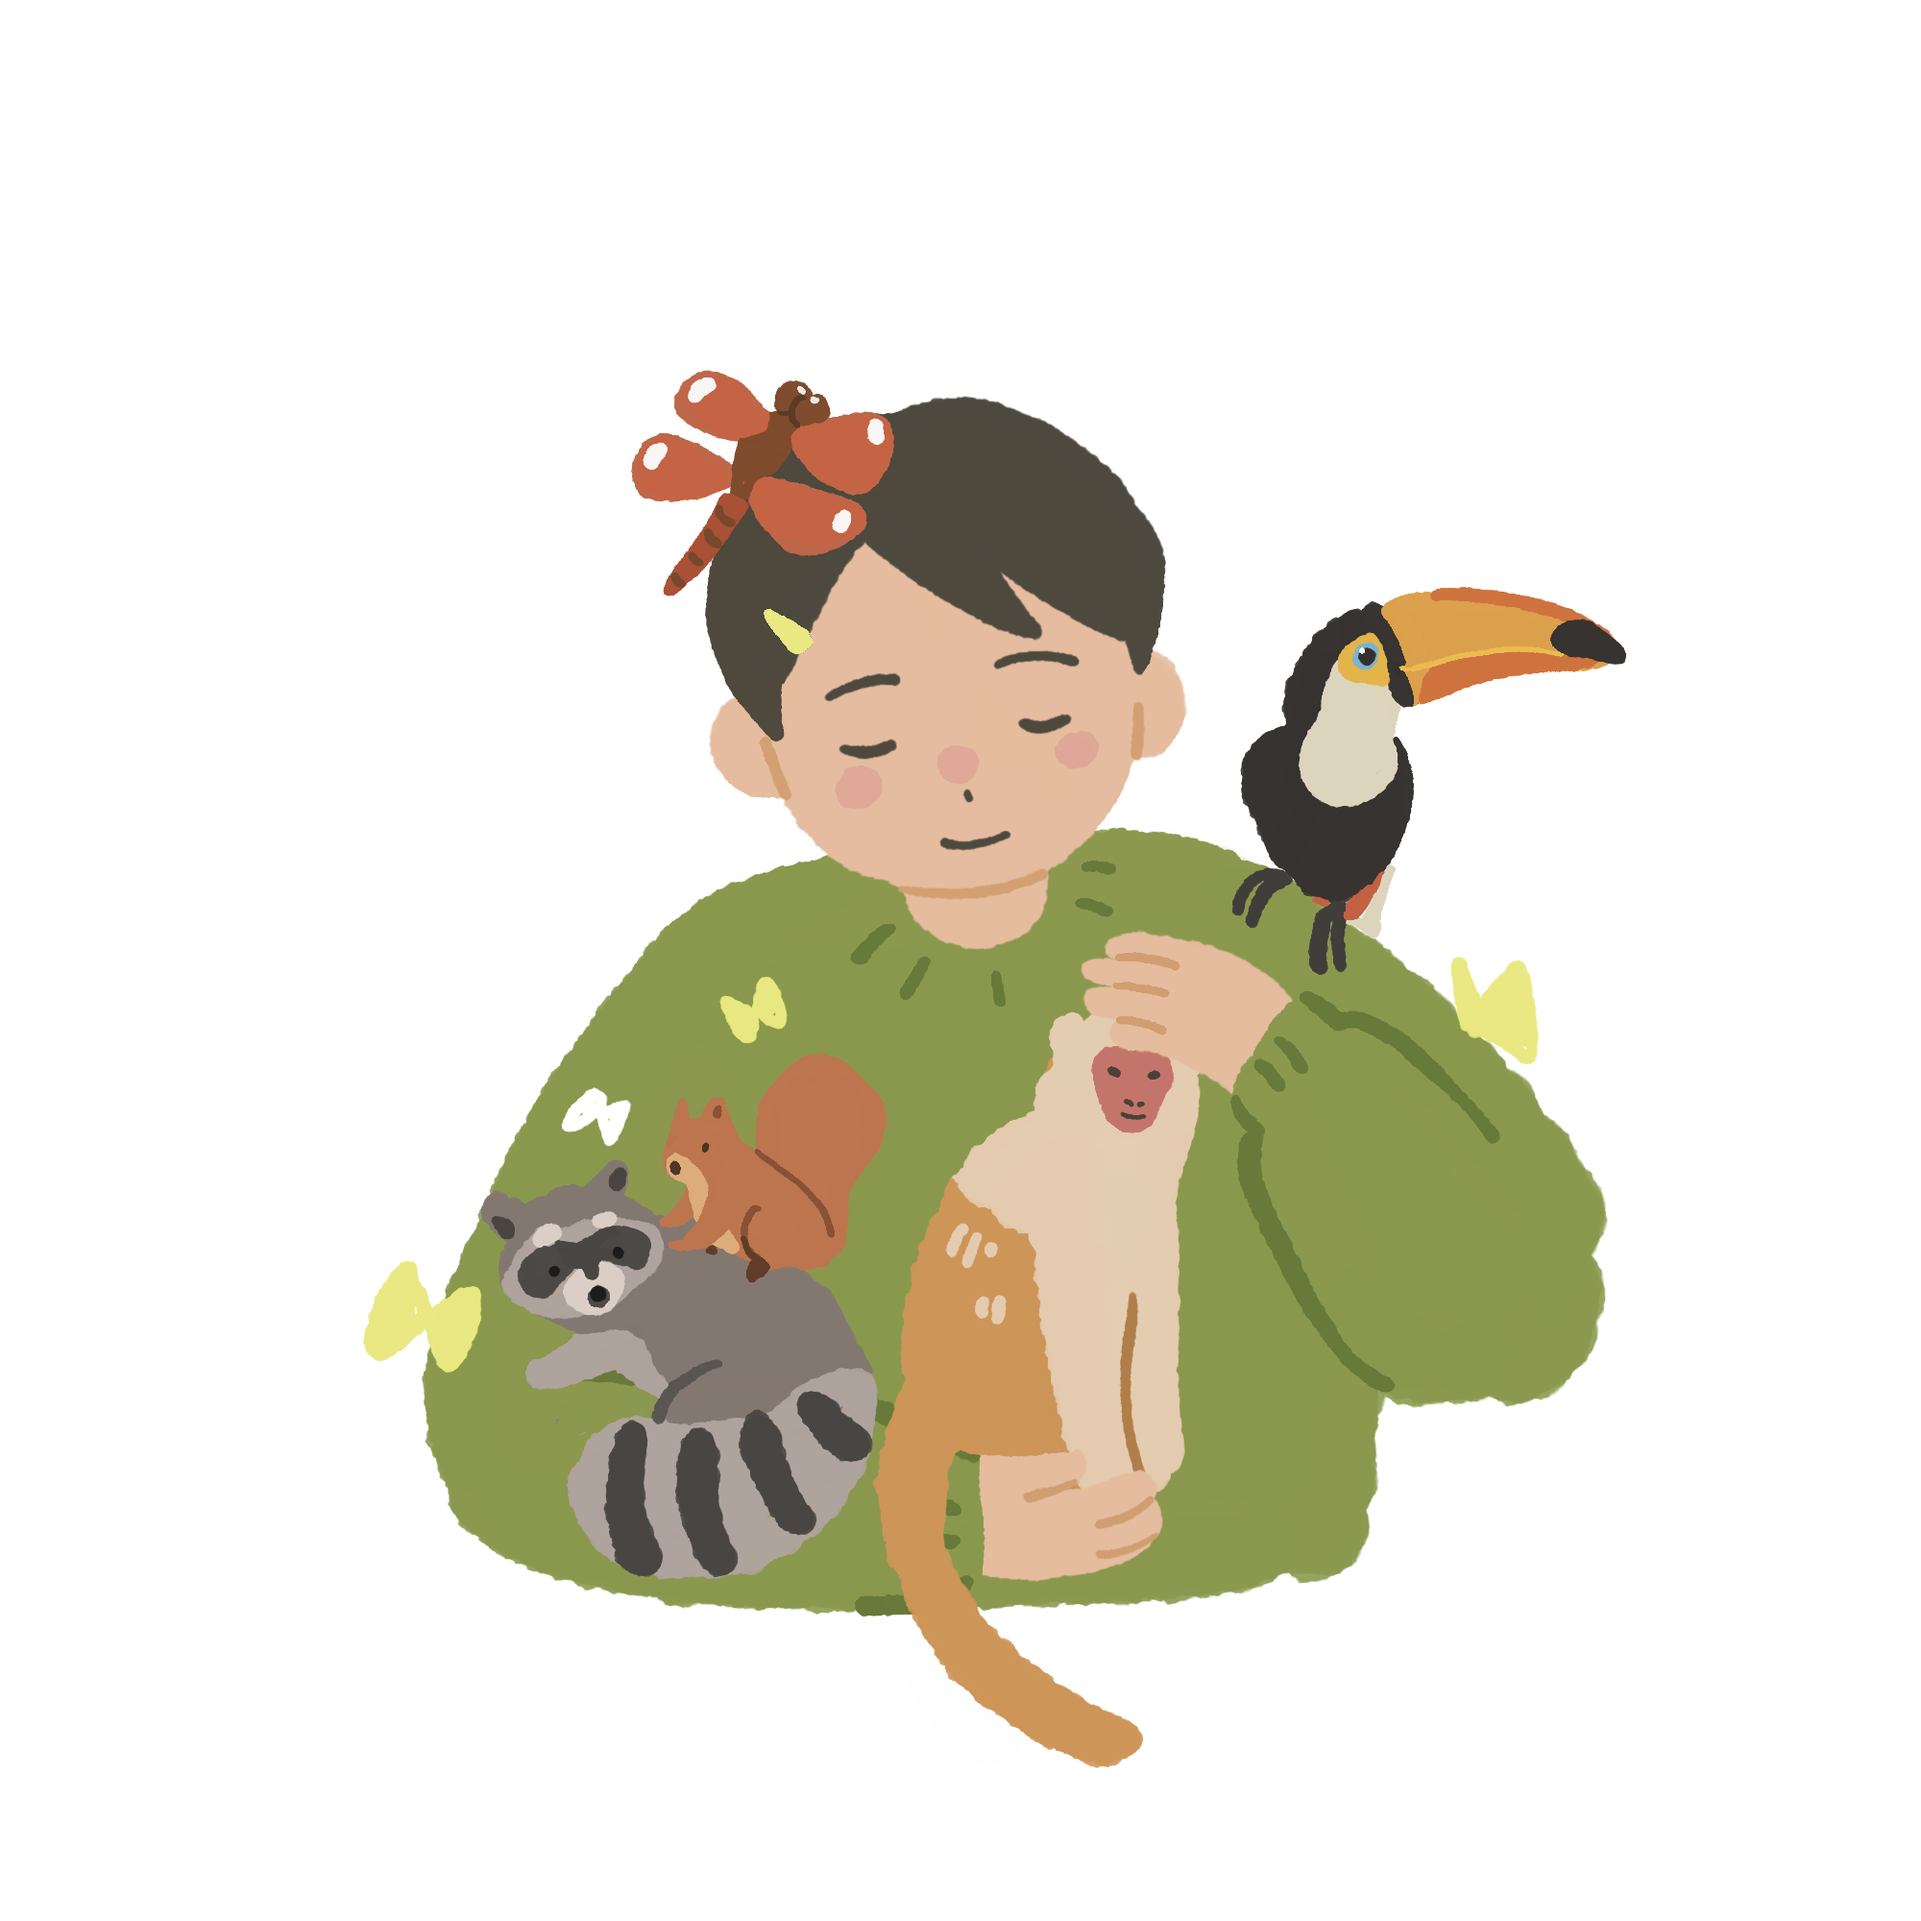
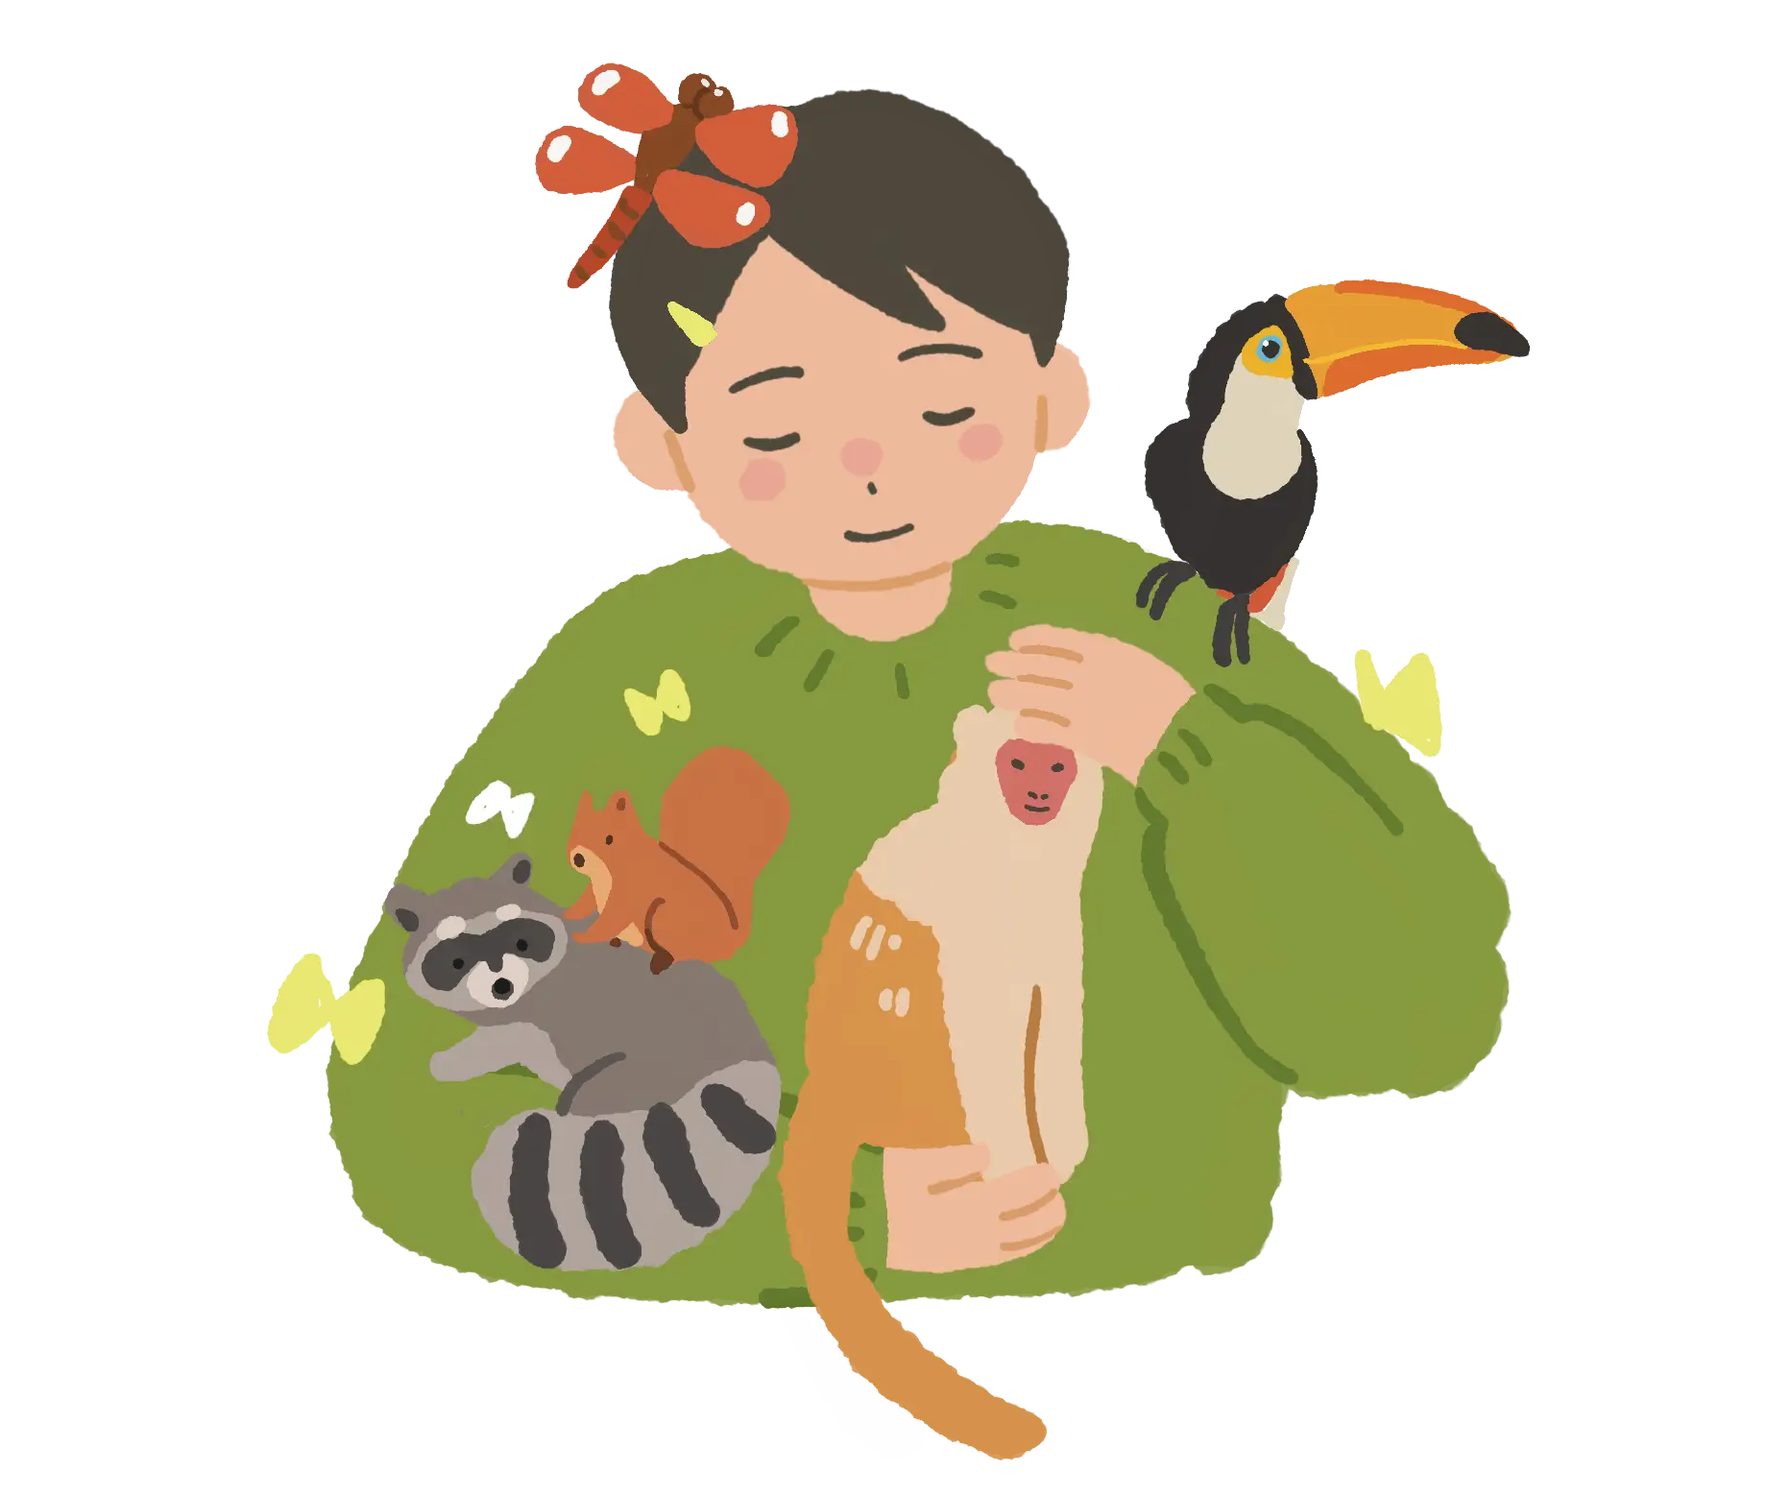
CU-86eryyky2 Routine updates and Change imgsrc from webp to png

Changed region(s): [[0.1549, 0.0308, 0.8674, 0.9846]]

diff --git a/apps/hk/events-biodiversity-wowwildcreatures-masterclass/components/MainPage.js b/apps/hk/events-biodiversity-wowwildcreatures-masterclass/components/MainPage.js
@@ -28,13 +28,13 @@ import HomeSwiper from './HomeSwiper';
 import RobertClassVision from './RobertClassVision';
 import { OrangeCTA } from '@common/styles/components/formStyle';
 import animals from '../images/robert-class/home/02a_HK_animals.png';
-import main02Img from '../images/robert-class/main-02.webp';
-import main03Img from '../images/robert-class/main-03.webp';
-import main04Img from '../images/robert-class/main-04.webp';
-import lovingAnimals from '../images/robert-class/loving-animals.webp';
+import main02Img from '../images/robert-class/main-02.png';
+import main03Img from '../images/robert-class/main-03.png';
+import main04Img from '../images/robert-class/main-04.png';
+import lovingAnimals from '../images/robert-class/loving-animals.png';
 import logoAnimals from '../images/robert-class/logo-animals.webp';
 
-import robertClassIntro from '../images/robert-class/robert-intro.webp';
+import robertClassIntro from '../images/robert-class/robert-intro.png';
 import { scrollToRef } from '../util';
 
 import SignupForm from '@components/GP/HKForm';

diff --git a/apps/hk/events-biodiversity-wowwildcreatures-masterclass/components/Episodes/content.js b/apps/hk/events-biodiversity-wowwildcreatures-masterclass/components/Episodes/content.js
@@ -4,7 +4,7 @@ import { useVideoContext } from '../../context/video';
 import { useGlobalContext } from '../../context/global';
 import { Image } from '@chakra-ui/react';
 import GeneralCarousel from '../GeneralCarousel';
-import robertIntro from '../../images/robert-class/robert-intro.webp';
+import robertIntro from '../../images/robert-class/robert-intro.png';
 import { useRouter } from 'next/router';
 export default function EpisodeContent() {
 	const value = useGlobalContext();
